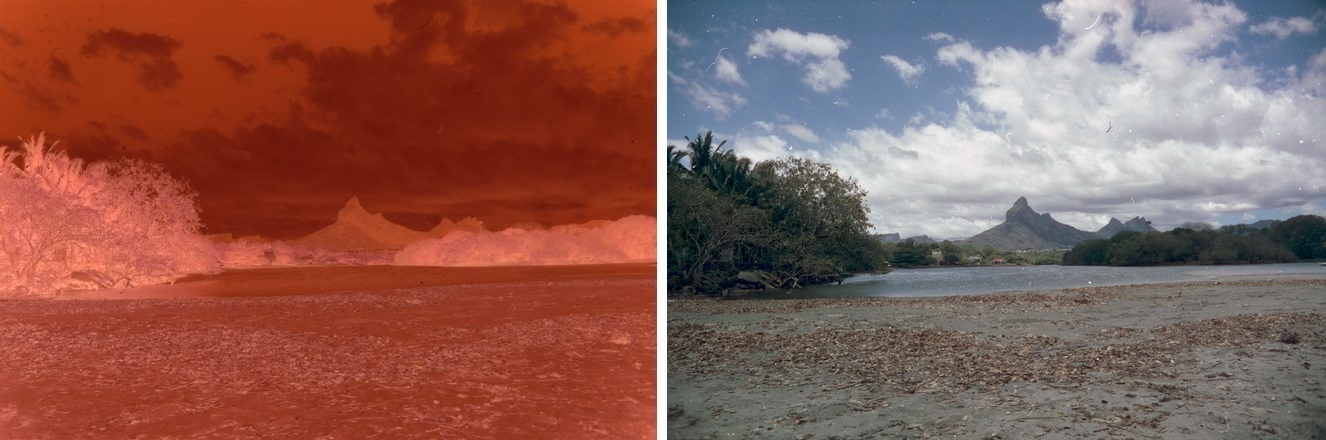
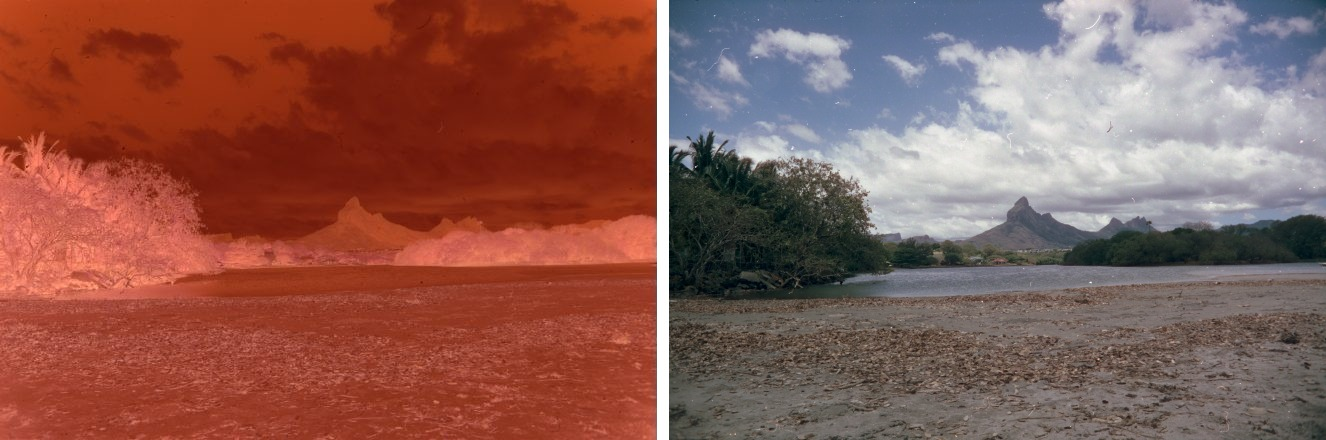
Regenerate the web scan samples with the latest automatic conversion
Re-render the right-hand panels of samples/web_5e74adc30c.jpg,
samples/web_72a0a8b2e5.jpg, and samples/web_d216d498d5.jpg using the
command documented in README.md (--film_stock portra400 --light_source
d65 --roi auto -P srgb) on master, keeping the left-hand camera scans
unchanged, and remove the stale commit note from README.md.

- web_5e74adc30c.jpg: Target 5 (clip fallback from Target 4), E 0.9697
  g 1.10 b 0.98; fitted curves E 0.9930 g 0.8900 b 0.6471
- web_72a0a8b2e5.jpg: Target 3, E 0.8120 g 1.10 b 1.39; fitted curves
  E 0.8168 g 1.0532 b 1.2440
- web_d216d498d5.jpg: Target 4, E 1.0094 g 0.94 b 1.42; fitted curves
  E 0.9945 g 1.0972 b 1.0174

diff --git a/README.md b/README.md
@@ -229,9 +229,7 @@ bin_out/neg_process --film_stock portra400 --light_source d65 -P apd --print kod
 
 Three scans people posted on the [pixls.us](https://discuss.pixls.us) forum, taken with cameras and lamps the profiles
 were not made with. Left: the scan as the camera saw it. Right: `neg_process` with
-`--film_stock portra400 --light_source d65 --roi auto -P srgb`, everything else automatic. They were rendered at commit
-`e7e2fad` (2026-11-16); the Portra 400 intent adapter, the way the search reads its previews and the conversion from
-the profile to sRGB have changed since, so the current build may render them differently.
+`--film_stock portra400 --light_source d65 --roi auto -P srgb`, everything else automatic.
 
 ![Mauritius mountain with river mouth](samples/web_5e74adc30c.jpg)
 
